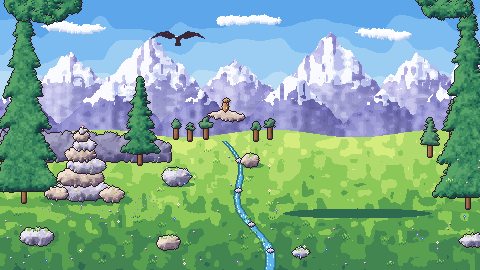
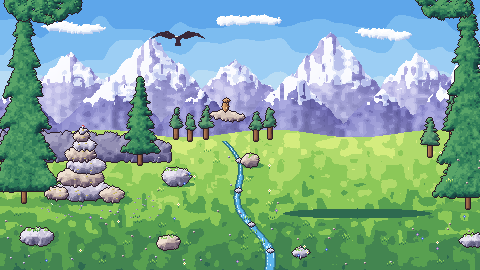
2.5.49: gather scene layers for nine landscapes, satchel skins, time of day, weather overlays
Claude-Session: https://claude.ai/code/session_01PZZqg8T2evqKtdXEWwomaB

Changed region(s): [[0.3438, 0.3852, 0.4688, 0.4741], [0.5, 0.3852, 0.5938, 0.4741], [0.9062, 0.3556, 0.9688, 0.4444]]

diff --git a/aseprite-source/v3/gather/grade.py b/aseprite-source/v3/gather/grade.py
@@ -17,7 +17,7 @@ def dusk(rgb):
     v = v * 0.84
     t = colorsys.hsv_to_rgb(h, s, v)
     t = mixc(t, (0.34, 0.2, 0.5), max(0, 1 - v * 2.0) * 0.5)       # violet shadows
-    t = (t[0] * 1.2, t[1] * 0.84, t[2] * 0.68)                       # low orange sun
+    t = (t[0] * 1.1, t[1] * 0.88, t[2] * 0.76)                       # low orange sun
     if v > 0.72: t = mixc(t, (1.0, 0.78, 0.5), 0.18)                  # warm highlights
     return clamp(curve(t, 1.12))
 

diff --git a/game/includes/bootstrap.php b/game/includes/bootstrap.php
@@ -2,7 +2,7 @@
 declare(strict_types=1);
 
 define('APP_ROOT', dirname(__DIR__));
-define('APP_VERSION', '2.5.48');
+define('APP_VERSION', '2.5.49');
 
 if (!is_file(APP_ROOT . '/config.php')) {
     http_response_code(503);

diff --git a/CHANGELOG.md b/CHANGELOG.md
@@ -1,5 +1,10 @@
 # Changelog
 
+## 2.5.49
+- **Gather scene redrawn for all nine landscapes** (coast, mountain, forest, desert, rainforest, grassland, wetland, tundra, island) on a new organic pixel engine (`aseprite-source/v3/gather/gx.lua`): noisy shapes, per-pixel light, bark and leaf texture, one small quirk each. The satchel is no longer painted into the scene: it is two layers (back behind the find, front over it) with three skins, **leather** (default), **canvas** and **patchwork**. There is no satchel item yet; a later `satchel_skin` on the gnome picks the skin.
+- **Time of day**: the scene and satchel come in day, dusk (and dawn) and night versions by the Hollow hour (7-16 day, 5-6 and 17-19 dusk, otherwise night), made by `grade.py` from the day art.
+- **Weather**: rain, storm, frost, wind, fog and cloud overlays on the scene by the Hollow weather (sun and heat draw nothing). Made by `weather_overlays.py`.
+- Files: `assets/img/gather/scene3-<land>[-dusk|-night].png`, `satchel-back|front-<skin>[-dusk|-night].png`, `weather-*.png`; code `gather_scene_layers()` in `includes/gathering.php`, CSS `.gx-back` `.gx-wx`. A landscape without `scene3-` art keeps the old picture and fixed satchel. Rebuild: `python3 aseprite-source/v3/gather/build_gather.py`.
 ## 2.5.48
 - **35 pictures finally on the new art**: the v3 drawings from batches 1 and 2 had never been put into the game, which still showed older pictures: Butterfly House, Carrot, Corn, Pumpkin, Watermelon, Pineapple, Coconut, Cacao, Blueberry, Mint, Cassava, Turnip, Rambutan, Fiery Pickled Cabbage, Morel Risotto, Yuzu Marmalade, Bug Net, Tide Pail and Scoop, Fine Foraging Knife, Broken Wheelbarrow, Fossil Shell, Wisp Light, Spotted Pelt, Badger Claw, and the seeds of Banana, Blueberry, Cacao, Carrot, Chili Pepper, Coconut, Corn, Mint, Pineapple, Pumpkin and Watermelon. Ripe beds show the crop pictures, so Carrot, Corn, Pumpkin and the rest look better in the yard. (Ginseng Seed keeps its old picture: the new leaf reads as the wrong plant.)
 - **Butterfly House** is the new v3 picture (a slatted butterfly box on a post), replacing the 2.5.47 redraw. The Tortoise Run keeps the 2.5.47 pen (it has no v3 picture); `tools/draw_fix_art.py` now only draws that.

diff --git a/claude/todo.md b/claude/todo.md
@@ -1,5 +1,9 @@
 # Gnome Venture: to-do (updated 2026-11-05, live 2.5.42, built 2.5.48; current version and history: CHANGELOG.md. The NOW blocks below are older release notes)
 
+## LEFT (2026-11-05, 2.5.49 built on branch ccr-0358827d-mgop4k): gather scene layers
+- **Built:** all nine landscape scenes + 3 satchel skins + dusk/night + weather overlays (see CHANGELOG 2.5.49). Not built: slim zip (ask Josh), phone check. Josh to check: scene quality per landscape, dusk/night look, weather overlays, found item still lands in the satchel mouth, dark theme.
+- **Not done:** a satchel item/column (`satchel_skin`) to pick canvas/patchwork; a generic `scene3-` (unknown landscape falls back to old `scene.png`); the 8 slots, 6 vignettes, flourishes, badges, felt and ribbons in `assets/img/gather` are still old art (P4 rest); season variants; P7 (wonders 81 etc.); known art weak spots: rainforest monstera/orchids, grassland windmill base, island palm crowns and coconuts, desert/island sand blotchy.
+
 ## LEFT (2026-11-05, after 2.5.48; main = 2.5.48 at `c72ee23d`, branch `ccr-dedeb4af-hjr0wy` = main)
 **Built since 2.5.42 (see CHANGELOG 2.5.43 to 2.5.48; each slim zip was built on base 2.5.40 and the next one replaced it in `releases/` (2.5.43 to 2.5.47 zips are gone, upload 2.5.48); Josh uploads):** 2.5.43 blended yard paths + crops 1.25x + ripe crops show their own harvest picture; 2.5.44 untilled coverings (lawn, clover, wildflowers, weeds, dry, leaves, moss, dirt) on a 256 px yard turf; 2.5.45 soil-state tiles (planted, thirsty, ready); 2.5.46 stepping stones / log seats / toadstool rings / flower pots as joinable families with Shape + Size in the designer; 2.5.47 animal homes use their PNGs in the yard (they were served as old SVGs), Tortoise Run redrawn; 2.5.48 35 v3 pictures from batches 1 and 2 finally exported (incl. Butterfly House, Carrot, Corn, Pumpkin, Watermelon, 11 seeds).
 - **Josh:** phone-check 2.5.43 to 2.5.48 (garden yard: paths, coverings, soil states, designer Shape/Size, crop sizes, ripe crop pictures); if an item still shows old art after the zip, an Admin upload (`uploads/items/<slug>.png`) is shadowing it (those beat `assets/img/ph/`); upload-zips were NOT rebuilt for the 35 new pictures.
